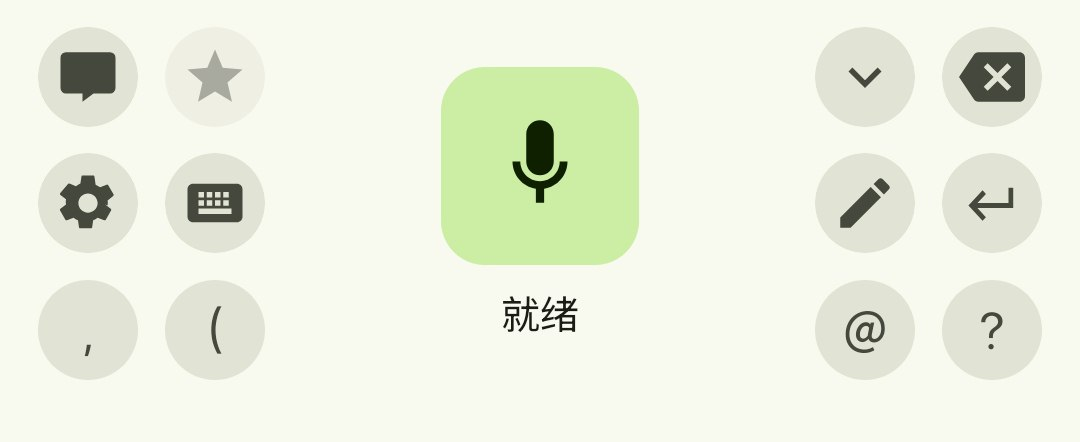
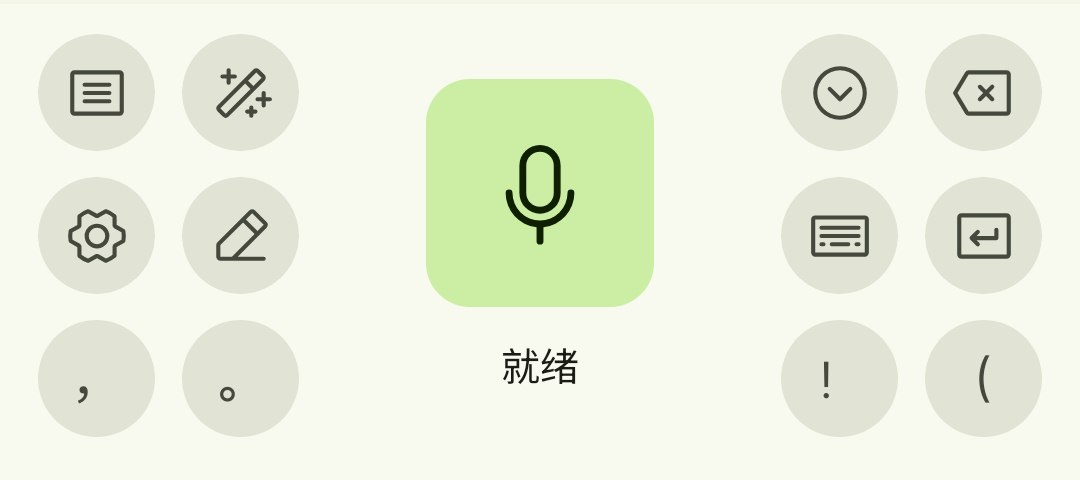
feat(readme): 更新感谢名单和技术支持列表，增加用户捐赠信息

diff --git a/README_EN.md b/README_EN.md
@@ -28,7 +28,7 @@ English | [简体中文](README.md)
 - **Press & Hold Recording** - Simple and intuitive recording
 - **Smart Auto-Stop** - Automatically stops recording on silence
 - **Fast Recognition** - Release to upload, quick results
-- **Multi-Engine Support** - 7+ mainstream ASR services
+- **Multi-Engine Support** - 8+ mainstream ASR services
 - **Local ASR Model** - Offline voice recognition, no network required, privacy-focused
 - **AI Text Optimization** - LLM smart correction of recognition results
 
@@ -63,7 +63,7 @@ English | [简体中文](README.md)
 - **Keyboard Height Adjustment** - Three height levels to choose from
 - **Test Input** - Test input method directly in settings
 - **Statistics** - Recognition character count
-- **Vibration Feedback** - Customizable feedback intensity
+- **Vibration Feedback** - Microphone / keyboard button vibration
 - **Auto Update Check** - Daily automatic update check on app launch
 
 </td>
@@ -411,7 +411,7 @@ The settings page supports configuration switching by vendor, showing only corre
 - `API Key`: API key
 - `Recognition Language`: Multi-language support
 
-> 📝 Non-streaming mode Uses OSS relay, slightly higher latency
+> 📝 Non-streaming mode uses official relay, slightly higher latency
 
 </td>
 <td width="50%">
@@ -462,7 +462,7 @@ The settings page supports configuration switching by vendor, showing only corre
 
 - **Silence Auto-Stop**: Enable/disable auto-stop feature
 - **Stop Duration**: Adjustable from 0.5-3 seconds
-- **Stop Sensitivity**: Three levels - 1-10
+- **Stop Sensitivity**: 1-10 levels
 - **Recognition Prompt**: Support custom prompts for Gemini, DashScope and other engines
 - **Language Selection**: Soniox, DashScope support multi-language selection
 
@@ -503,7 +503,7 @@ The settings page supports configuration switching by vendor, showing only corre
 ### 🎨 Tech Stack
 
 ```
-Kotlin 1.9.24
+Kotlin 2.2.20
 Android SDK 34 (Min SDK 29)
 Material Design 3
 Coroutines (async processing)
@@ -562,7 +562,13 @@ If this project helps you, please give it a Star ⭐ and feel free to buy me 
 
 Thanks to the following users for their support and appreciation. Your encouragement is the driving force for the project's continuous development!
 
+王千郡 - 26.66 RMB
+
 天凉好个秋 - 16.66 RMB
+
+Return - 16.66 RMB
+
+树人 - 10.24 RMB
 
 flyhunterl - 6.66 RMB
 
@@ -573,6 +579,8 @@ flyhunterl - 6.66 RMB
 Thanks to the following open-source projects for their technical support:
 
 - [sherpa-onnx](https://github.com/k2-fsa/sherpa-onnx) - Provides technical support for local ASR models, making offline voice recognition possible
+- [SyncClipboard](https://github.com/Jeric-X/SyncClipboard) - Provides clipboard synchronization backend service (not running locally, requires server)
+- [Phosphor](https://github.com/phosphor-icons/homepage) - Provides almost all icons used in the software
 
 ---
 

diff --git a/README.md b/README.md
@@ -557,8 +557,13 @@ Apache 2.0 License - 自由使用、修改、分发，需保留版权声明
 ## 💝 感谢名单
 
 感谢以下用户的赞赏支持，你们的鼓励是项目持续发展的动力！
+王千郡 - 26.66 RMB
 
 天凉好个秋 - 16.66 RMB
+
+Return - 16.66 RMB
+
+树人 - 10.24 RMB
 
 flyhunterl - 6.66 RMB
 
@@ -567,6 +572,8 @@ flyhunterl - 6.66 RMB
 感谢以下开源项目为本项目提供的技术支持：
 
 - [sherpa-onnx](https://github.com/k2-fsa/sherpa-onnx) - 提供了本地 ASR 模型的技术方案支持，使离线语音识别成为可能
+- [SyncClipboard](https://github.com/Jeric-X/SyncClipboard) - 提供了剪贴板同步的后端服务(非软件本地运行,需要服务器)
+- [Phosphor](https://github.com/phosphor-icons/homepage) - 提供了软件内几乎所有 Icons
 
 ---
 
